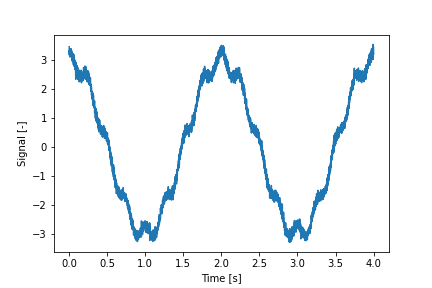
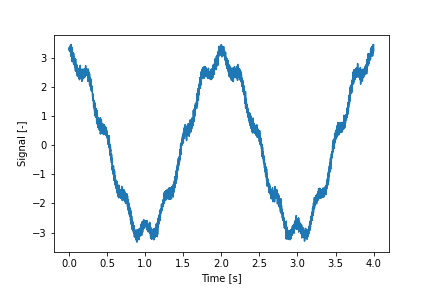
SIGGEN private Arguments

diff --git a/SIGGEN.py b/SIGGEN.py
@@ -12,62 +12,62 @@ from scipy import signal as ss;
 # SIGNAl GENERATOR
 class SIGGEN:
     # Signal data
-    y = []; # signal series
-    t = []; # time series
-    A = []; # Amplitudes of signal components
-    phi = []; # signal phase angles in rad
-    T = None; # Total signal length in seconds
-    Fs = None; # Sample Rate in Seconds
-    dt = None; # timestep dt
-    Fq = None; # Signal Comonent Frequencies in Hz
-    avgNoise = 0; # Mean Gaussian Noise
-    stdNoise = 0; # Standard Deviation Noise
+    __y = []; # signal series
+    __t = []; # time series
+    __A = []; # Amplitudes of signal components
+    __phi = []; # signal phase angles in rad
+    __T = None; # Total signal length in seconds
+    __Fs = None; # Sample Rate in Seconds
+    __dt = None; # timestep dt
+    __Fq = None; # Signal Comonent Frequencies in Hz
+    __avgNoise = 0; # Mean Gaussian Noise
+    __stdNoise = 0; # Standard Deviation Noise
 
    
     def __init__(self, T, FS, A, Freq, phi):
-        self.T = T; # Total Time in Seconds
-        self.Fs = FS; # Sample Rate in Sampels/s
-        self.dt = 1/self.Fs; # timestep dt in s
-        self.t = np.linspace(0, self.T,num=(self.Fs*self.T)); # time series
-        self.A = A; # signal components Amplitudes
-        self.Fq = Freq; # signal components Frequencies in Hz
-        self.phi = phi; # signal components phase shifts
-        self.y = np.zeros(self.Fs*self.T); 
+        self.__T = T; # Total Time in Seconds
+        self.__Fs = FS; # Sample Rate in Sampels/s
+        self.__dt = 1/self.__Fs; # timestep dt in s
+        self.__t = np.linspace(0, self.__T,num=(self.__Fs*self.__T)); # time series
+        self.__A = A; # signal components Amplitudes
+        self.__Fq = Freq; # signal components Frequencies in Hz
+        self.__phi = phi; # signal components phase shifts
+        self.__y = np.zeros(self.__Fs*self.__T); 
         
     def compute_Signal(self):
-        if len(self.A) == len(self.phi) & len(self.A) == len(self.Fq):
-            for i in range(len(self.A)):
-                for j in range(len(self.t)):
-                    self.y[j] = self.y[j] + self.A[i]*m.cos(self.t[j]*(2*m.pi)*self.Fq[i]+self.phi[i]);
+        if len(self.__A) == len(self.__phi) & len(self.__A) == len(self.__Fq):
+            for i in range(len(self.__A)):
+                for j in range(len(self.__t)):
+                    self.__y[j] = self.__y[j] + self.__A[i]*m.cos(self.__t[j]*(2*m.pi)*self.__Fq[i]+self.__phi[i]);
         
     def compute_Square_Signal(self):
-        if len(self.A) == len(self.phi) & len(self.A) == len(self.Fq):
-            for i in range(len(self.A)):
-                self.y = self.y + self.A[i]*ss.square(2*m.pi*self.Fq[i]*self.t+self.phi[i]);
+        if len(self.__A) == len(self.__phi) & len(self.__A) == len(self.__Fq):
+            for i in range(len(self.__A)):
+                self.__y = self.__y + self.__A[i]*ss.square(2*m.pi*self.__Fq[i]*self.__t+self.__phi[i]);
             
     def compute_Sawtooth_Signal(self):
-        if len(self.A) == len(self.phi) & len(self.A) == len(self.Fq):
-            for i in range(len(self.A)):
-                self.y = self.y + self.A[i]*ss.sawtooth(2*m.pi*self.Fq[i]*self.t+self.phi[i]);
+        if len(self.__A) == len(self.__phi) & len(self.__A) == len(self.__Fq):
+            for i in range(len(self.__A)):
+                self.__y = self.__y + self.__A[i]*ss.sawtooth(2*m.pi*self.__Fq[i]*self.__t+self.__phi[i]);
     
     def add_Gaussian_Noise(self, mean, std):
-        self.avgNoise = mean;
-        self.stdNoise = std;
-        self.y = self.y + np.random.normal(self.avgNoise, self.stdNoise, len(self.t));
+        self.__avgNoise = mean;
+        self.__stdNoise = std;
+        self.__y = self.__y + np.random.normal(self.__avgNoise, self.__stdNoise, len(self.__t));
         
     def add_White_Noise(self, mean, std):
-        self.avgNoise = mean;
-        self.stdNoise = std;
-        self.y = self.y + np.random.uniform(self.avgNoise, self.stdNoise, len(self.t));
+        self.__avgNoise = mean;
+        self.__stdNoise = std;
+        self.__y = self.__y + np.random.uniform(self.__avgNoise, self.__stdNoise, len(self.__t));
         
     def add_Brownian_Noise(self, mean, std):
-        self.avgNoise = mean;
-        self.stdNoise = std;
-        self.y = self.y + np.cumsum(np.random.normal(self.avgNoise, self.stdNoise, len(self.t)));
+        self.__avgNoise = mean;
+        self.__stdNoise = std;
+        self.__y = self.__y + np.cumsum(np.random.normal(self.__avgNoise, self.__stdNoise, len(self.__t)));
         
     def  plot_Signal(self,label):
         plt.figure
-        plt.plot(self.t, self.y)
+        plt.plot(self.__t, self.__y)
         plt.xlabel("Time [s]")
         plt.ylabel("Signal [-]")
         plt.show
@@ -75,4 +75,4 @@ class SIGGEN:
     
     def get_Signal(self):
         # Return time and signal series
-        return [self.t, self.y] 
+        return [self.__t, self.__y] 

diff --git a/main.py b/main.py
@@ -13,16 +13,15 @@ import SIGGEN;
 ###############################################################################
 #################### SIGNAL  GENERATOR / DATA READ ############################
 ###############################################################################
-# sig = SIGGEN.SIGGEN(4, 250000, [1,2,1.5],[400,3200,6400],[0,m.pi/2,m.pi/5]);
 sig = SIGGEN.SIGGEN(4, 1000, [3,0.3],[0.5,4],[0,0]); # Initialize Signal
-sig.compute_Signal();
-sig.add_Gaussian_Noise(0, 0.1);
-sig.plot_Signal("Signal");
+sig.compute_Signal(); # Compute Signal
+sig.add_Gaussian_Noise(0, 0.1); # Add Noise
+sig.plot_Signal("Signal"); # Show signal
 
-trig = SIGGEN.SIGGEN(4, 1000, [3],[1],[0]); # Initialize Signal
-trig.compute_Square_Signal();
-trig.add_White_Noise(0, 0.1)
-trig.plot_Signal("Trigger_Signal");
+trig = SIGGEN.SIGGEN(4, 1000, [2],[2],[0]); # Initialize Trigger Signal
+trig.compute_Square_Signal(); # Compute Trigger Signal
+trig.add_White_Noise(0, 0.1); # Add Noise
+trig.plot_Signal("Trigger_Signal"); # Show Trigger Signal
 
 
 ###############################################################################
@@ -38,6 +37,18 @@ trig.plot_Signal("Trigger_Signal");
 ###############################################################################
 ############################# DATA PROCESSING #################################
 ###############################################################################
+
+
+
+
+
+
+
+###############################################################################
+############################### DATA OUTPUT ###################################
+###############################################################################
+
+
 
 
 print("Hello World!")
